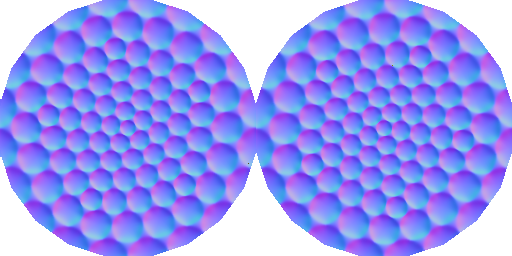
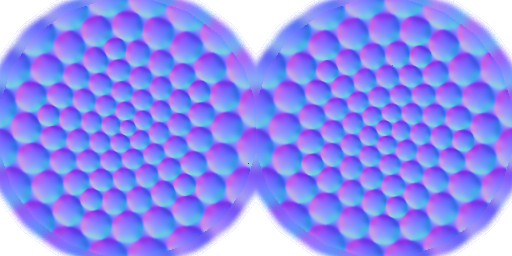
Improve how normal maps work on movimng objects
git-svn-id: https://svn.code.sf.net/p/supertuxkart/code@10312 178a84e3-b1eb-0310-8ba1-8eac791a3b58

diff --git a/main/trunk/src/graphics/material.cpp b/main/trunk/src/graphics/material.cpp
@@ -60,7 +60,12 @@ public:
         services->setPixelShaderConstant("BumpTex", (float*)&bumptex, 1);
         
         // TODO: check the position of the sun
-        const float lightdir[] = {0.5f, 0.5f, 1.0f};
+        /*
+         You have to calculate the light position in (model)view Space. It can be done, by transforming the light positions and rotations
+         with the modelviewmatrix, after the camera is set. You should do this calculations before the shader runs, but it is also possible
+         to pass the camera matrix (calculation in modelviewspace) or ModelMatrix (calculation in WorldSpace) to a shader. 
+         */
+        const float lightdir[] = {-0.5f, -0.5f, -1.0f};
         services->setVertexShaderConstant("lightdir", lightdir, 3);
     }
 };
